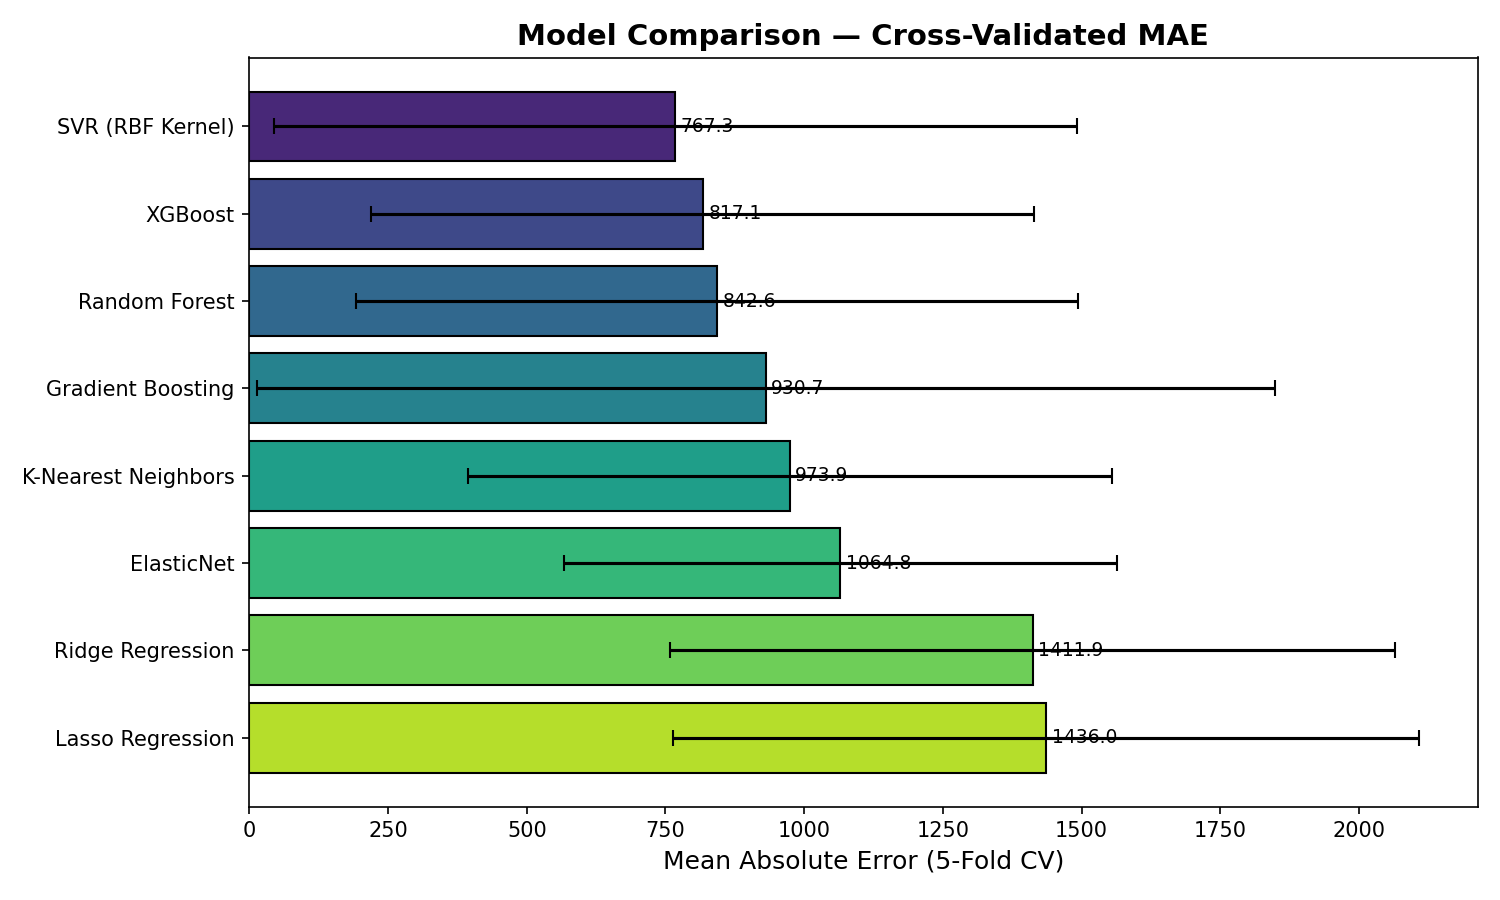
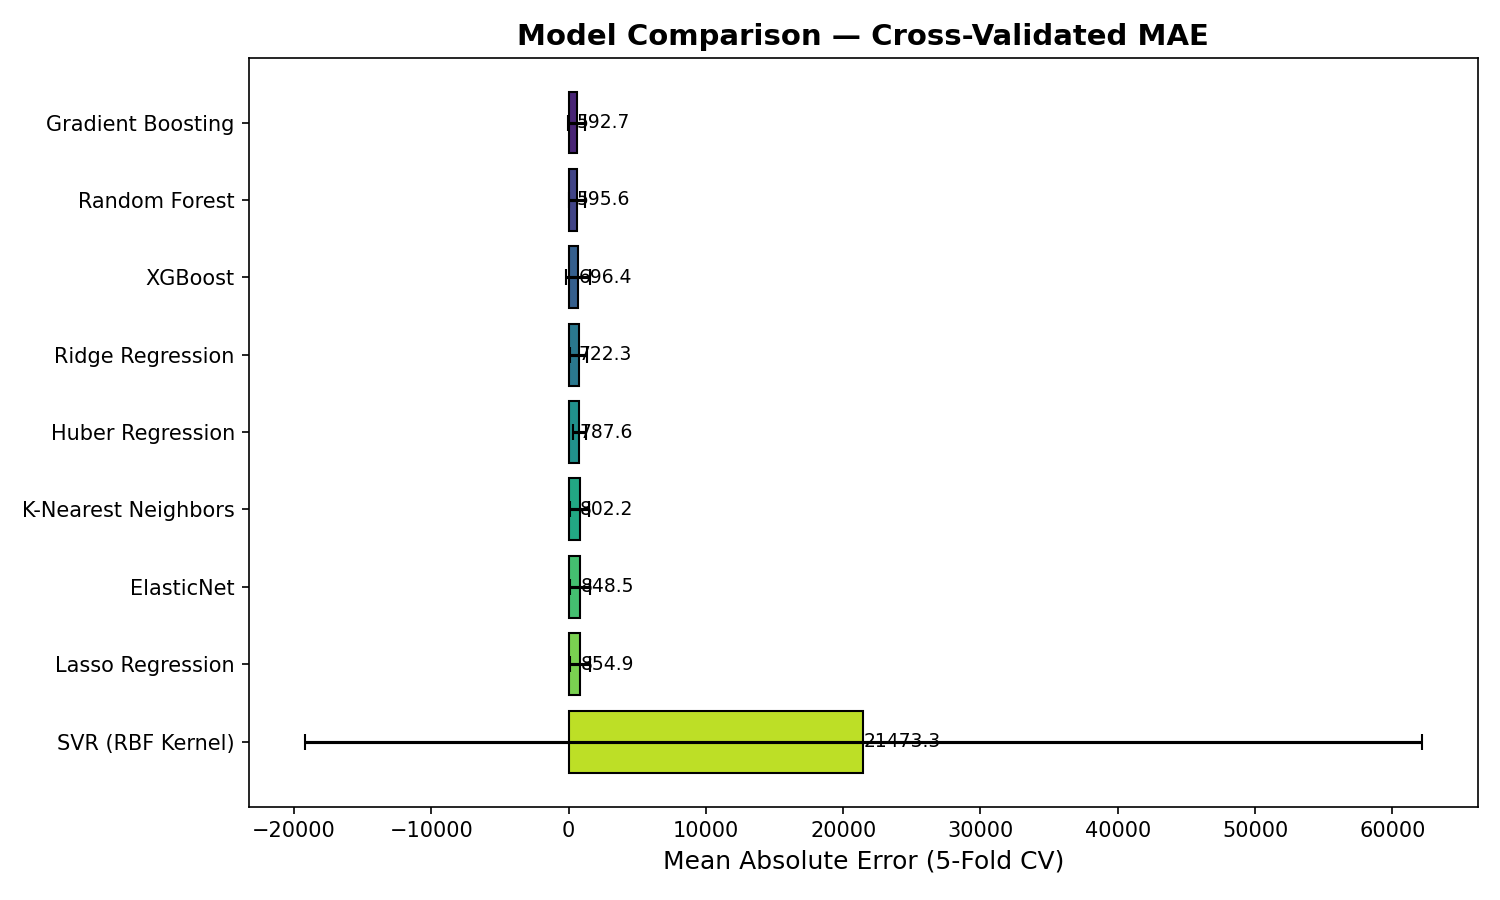
feat(regression): fix severe target outlier distortion using target transformation
- Replaced StandardScaler with RobustScaler to handle heavy input feature distribution.
- Wrapped all models in TransformedTargetRegressor using symmetric log/exp functions (symlog) to natively support negative target values and mitigate extreme outlier skewing.
- Refactored model initialization in evaluation loops using sklearn.base.clone to prevent parameter validation errors.
- Improved model performance from negative R² to positive (~0.39) using Gradient Boosting and XGBoost.

diff --git a/main.py b/main.py
@@ -17,6 +17,8 @@ from sklearn.metrics import (
     mean_squared_error,
     r2_score,
 )
+from sklearn.preprocessing import RobustScaler
+import sklearn.base
 
 # Models 
 from sklearn.linear_model import Ridge, Lasso, ElasticNet
@@ -24,6 +26,8 @@ from sklearn.neighbors import KNeighborsRegressor
 from sklearn.svm import SVR
 from sklearn.ensemble import RandomForestRegressor, GradientBoostingRegressor
 from xgboost import XGBRegressor
+from sklearn.compose import TransformedTargetRegressor
+from sklearn.linear_model import HuberRegressor
 
 # CONFIGURATION
 DATA_FILE = "data.xlsx"
@@ -66,7 +70,7 @@ def load_data_from_excel(file_path: str):
 # PREPROCESSING
 def preprocess(X_train_raw, X_test_raw):
 
-    scaler = StandardScaler()
+    scaler = RobustScaler()
     X_train_sc = scaler.fit_transform(X_train_raw)
     X_test_sc = scaler.transform(X_test_raw)
 
@@ -79,46 +83,49 @@ def preprocess(X_train_raw, X_test_raw):
 
 #  MODEL DEFINITIONS
 def get_models():
-    return {
+    base_models = {
         "Ridge Regression": Ridge(alpha=1.0),
         "Lasso Regression": Lasso(alpha=1.0, max_iter=10000),
         "ElasticNet": ElasticNet(alpha=1.0, l1_ratio=0.5, max_iter=10000),
+        "Huber Regression": HuberRegressor(max_iter=2000),
         "K-Nearest Neighbors": KNeighborsRegressor(n_neighbors=5),
         "SVR (RBF Kernel)": SVR(kernel="rbf", C=100, epsilon=0.1),
-        "Random Forest": RandomForestRegressor(
-            n_estimators=200, max_depth=10, random_state=RANDOM_STATE
-        ),
-        "Gradient Boosting": GradientBoostingRegressor(
-            n_estimators=200, max_depth=4, learning_rate=0.1,
-            random_state=RANDOM_STATE,
-        ),
-        "XGBoost": XGBRegressor(
-            n_estimators=200, max_depth=4, learning_rate=0.1,
-            random_state=RANDOM_STATE, verbosity=0,
-        ),
+        "Random Forest": RandomForestRegressor(n_estimators=200, max_depth=10, random_state=RANDOM_STATE),
+        "Gradient Boosting": GradientBoostingRegressor(n_estimators=200, max_depth=4, learning_rate=0.1, random_state=RANDOM_STATE),
+        "XGBoost": XGBRegressor(n_estimators=200, max_depth=4, learning_rate=0.1, random_state=RANDOM_STATE, verbosity=0),
+    }
+    
+    def symlog(x):
+        return np.sign(x) * np.log1p(np.abs(x))
+
+    def symexp(x):
+        return np.sign(x) * np.expm1(np.abs(x))
+
+    return {
+        name: TransformedTargetRegressor(
+            regressor=m, 
+            func=symlog, 
+            inverse_func=symexp,
+            check_inverse=True  # scikit-learn'ün doğrulamadan geçmesini sağlar
+        ) 
+        for name, m in base_models.items()
     }
 
 
-# EVALUATION  (5-Fold Cross-Validation)
-def evaluate_models_cv(models: dict, X, y, cv_folds=CV_FOLDS):
+# EVALUATION (5-Fold Cross-Validation)
+def evaluate_models_cv(models: dict, X, y, is_linear_dict, X_poly, cv_folds=CV_FOLDS):
 
     kf = KFold(n_splits=cv_folds, shuffle=True, random_state=RANDOM_STATE)
 
     records = []
     for name, model in models.items():
+        X_data = X_poly if is_linear_dict[name] else X
+
         # MAE
-        mae_scores = -cross_val_score(
-            model, X, y, cv=kf, scoring="neg_mean_absolute_error"
-        )
-        # RMSE
-        mse_scores = -cross_val_score(
-            model, X, y, cv=kf, scoring="neg_mean_squared_error"
-        )
+        mae_scores = -cross_val_score(model, X_data, y, cv=kf, scoring="neg_mean_absolute_error")
+        mse_scores = -cross_val_score(model, X_data, y, cv=kf, scoring="neg_mean_squared_error")
         rmse_scores = np.sqrt(mse_scores)
-        # R2
-        r2_scores = cross_val_score(
-            model, X, y, cv=kf, scoring="r2"
-        )
+        r2_scores = cross_val_score(model, X_data, y, cv=kf, scoring="r2")
 
         records.append({
             "Model": name,
@@ -306,6 +313,8 @@ def main():
     # 4. Cross-validation
     print("\n[4/7] Running 5-fold cross-validation …")
 
+    models = get_models()
+    
     models_linear = {
         "Ridge Regression": Ridge(alpha=1.0),
         "Lasso Regression": Lasso(alpha=1.0, max_iter=10000),
@@ -326,9 +335,13 @@ def main():
             random_state=RANDOM_STATE, verbosity=0,
         ),
     }
+    is_linear_dict = {
+        "Ridge Regression": True, "Lasso Regression": True, "ElasticNet": True, "Huber Regression": True,
+        "K-Nearest Neighbors": False, "SVR (RBF Kernel)": False, "Random Forest": False, "Gradient Boosting": False, "XGBoost": False
+    }
 
-    cv_linear = evaluate_models_cv(models_linear, X_tr_poly, y_train)
-    cv_nonlinear = evaluate_models_cv(models_nonlinear, X_tr_sc, y_train)
+    cv_linear = evaluate_models_cv({k: v for k, v in models.items() if is_linear_dict[k]}, X_tr_sc, y_train, is_linear_dict, X_tr_poly)
+    cv_nonlinear = evaluate_models_cv({k: v for k, v in models.items() if not is_linear_dict[k]}, X_tr_sc, y_train, is_linear_dict, X_tr_poly)
     cv_results = pd.concat([cv_linear, cv_nonlinear], ignore_index=True)
     cv_results = cv_results.sort_values("MAE (mean)").reset_index(drop=True)
 
@@ -352,27 +365,24 @@ def main():
     print(f"     CV R²   = {best_r2:.4f}")
 
     is_linear = best_name in models_linear
-    all_models = {**models_linear, **models_nonlinear}
+    all_models = models
 
-    best_model = all_models[best_name].__class__(
-        **all_models[best_name].get_params()
-    )
+    best_model = sklearn.base.clone(all_models[best_name])
 
-    if is_linear:
-        best_model.fit(X_tr_poly, y_train)
-        y_test_pred = best_model.predict(X_te_poly)
-    else:
-        best_model.fit(X_tr_sc, y_train)
-        y_test_pred = best_model.predict(X_te_sc)
+    X_train_final = X_tr_poly if is_linear_dict[best_name] else X_tr_sc
+    X_test_final = X_te_poly if is_linear_dict[best_name] else X_te_sc
+
+
+    best_model.fit(X_train_final, y_train)
+    y_test_pred = best_model.predict(X_test_final)
 
     print(f"\n  Predicted Y values for test IDs 101–120:")
     for i, val in enumerate(y_test_pred):
         print(f"    ID {101 + i:3d} → {val:10.2f}")
 
     # Holdout diagnostics for the best model
-    holdout_models = {best_name: all_models[best_name].__class__(
-        **all_models[best_name].get_params()
-    )}
+    holdout_models = {best_name: sklearn.base.clone(all_models[best_name])}
+
     if is_linear:
         holdout_res = holdout_evaluate(holdout_models, X_tr_poly, y_train)
     else:
@@ -394,7 +404,7 @@ def main():
     # Also generate feature importance for top tree based models
     for name in ["Random Forest", "Gradient Boosting", "XGBoost"]:
         if name != best_name:
-            m = all_models[name].__class__(**all_models[name].get_params())
+            m = sklearn.base.clone(all_models[name])
             m.fit(X_tr_sc, y_train)
             plot_feature_importance(m, feature_names, name)
 